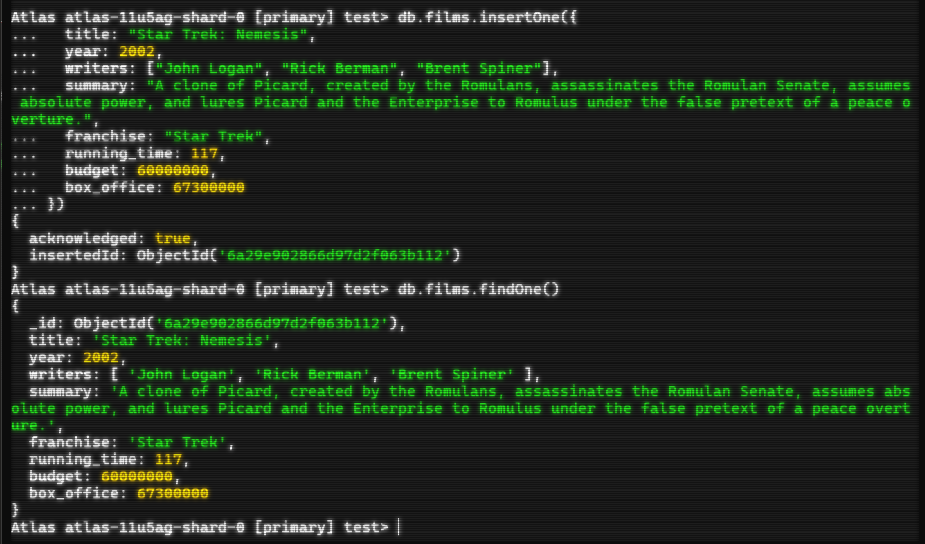
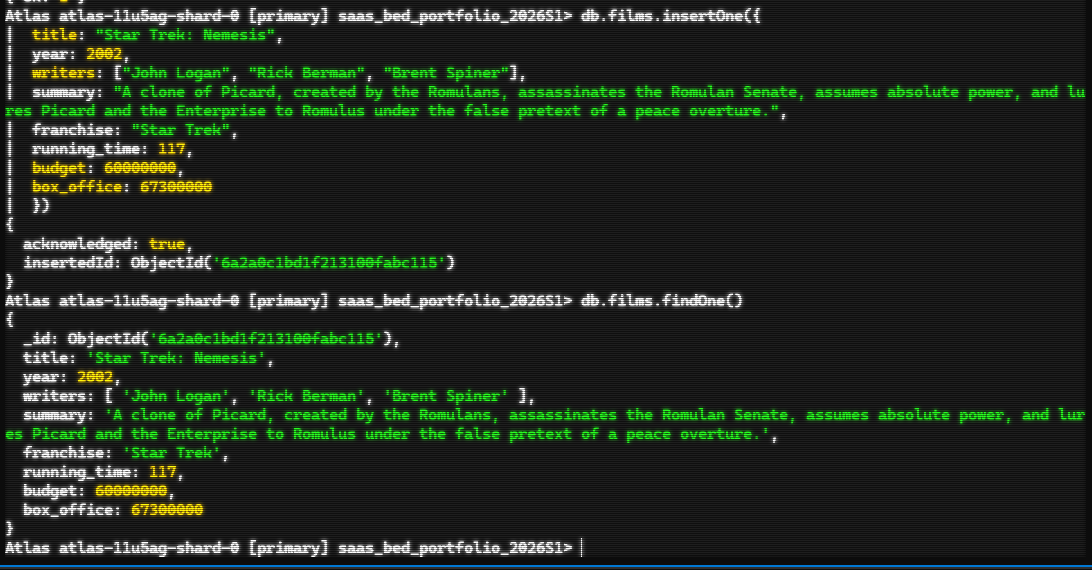
feat(step-3): Step 3 Completed - fixed

Changed region(s): [[0.0, 0.0, 1.0, 1.0]]

diff --git a/answers.md b/answers.md
@@ -180,12 +180,12 @@ Example: mongos mongodb://192.168.0.5:9999/foo
 
 > Provide the schema validation code for the collection. 
 
-```text
-db.createCollection("movies", {
+```php
+db.createCollection("films", {
   validator: {
     $jsonSchema: {
     bsonType: "object",
-    required: ["title", "year", "running_time"],
+    required: ["title"],
     properties: {
       title: {
         bsonType: "string"
@@ -233,6 +233,7 @@ db.createCollection("movies", {
         bsonType: ["int", "null"],
         minimum: 0,
         maximum: 100
+        }
       }
     }
   }
@@ -243,19 +244,22 @@ db.createCollection("movies", {
 
 Using db.collections.insertOne()
 
-```text
+```php
 db.films.insertOne({
-...   title: "Star Trek: Nemesis",
-...   year: 2002,
-...   writers: ["John Logan", "Rick Berman", "Brent Spiner"],
-...   summary: "A clone of Picard, created by the Romulans, assassinates the Romulan Senate, assumes absolute power, and lures Picard and the Enterprise to Romulus under the false pretext of a peace overture.",
-...   franchise: "Star Trek",
-...   running_time: 117,
-...   budget: 60000000,
-...   box_office: 67300000
-... })
+ title: "Star Trek: Nemesis",
+ year: 2002,
+ writers: ["John Logan", "Rick Berman", "Brent Spiner"],
+ summary: "A clone of Picard, created by the Romulans, assassinates the Romulan Senate, assumes absolute power, and lures Picard and the Enterprise to Romulus under the false pretext of a peace overture.",
+ franchise: "Star Trek",
+ running_time: 117,
+ budget: 60000000,
+ box_office: 67300000
+ })
 ```
-![img_1.png](assets/images/step-3-004.png)
+
+![img.png](assets/images/step-3-004.png)
+
+**4.1**
 
 
 
